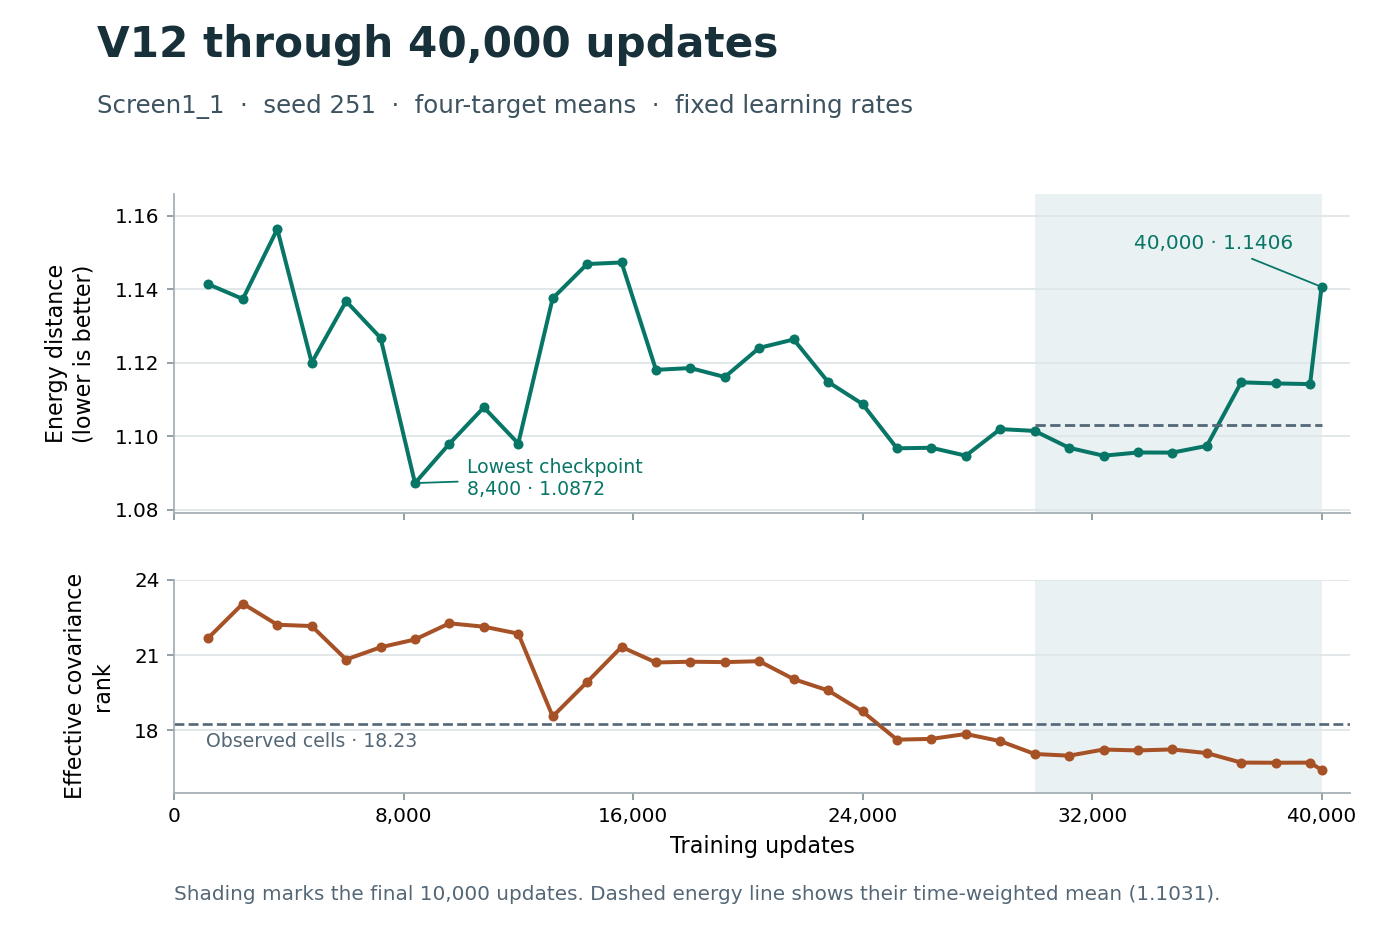
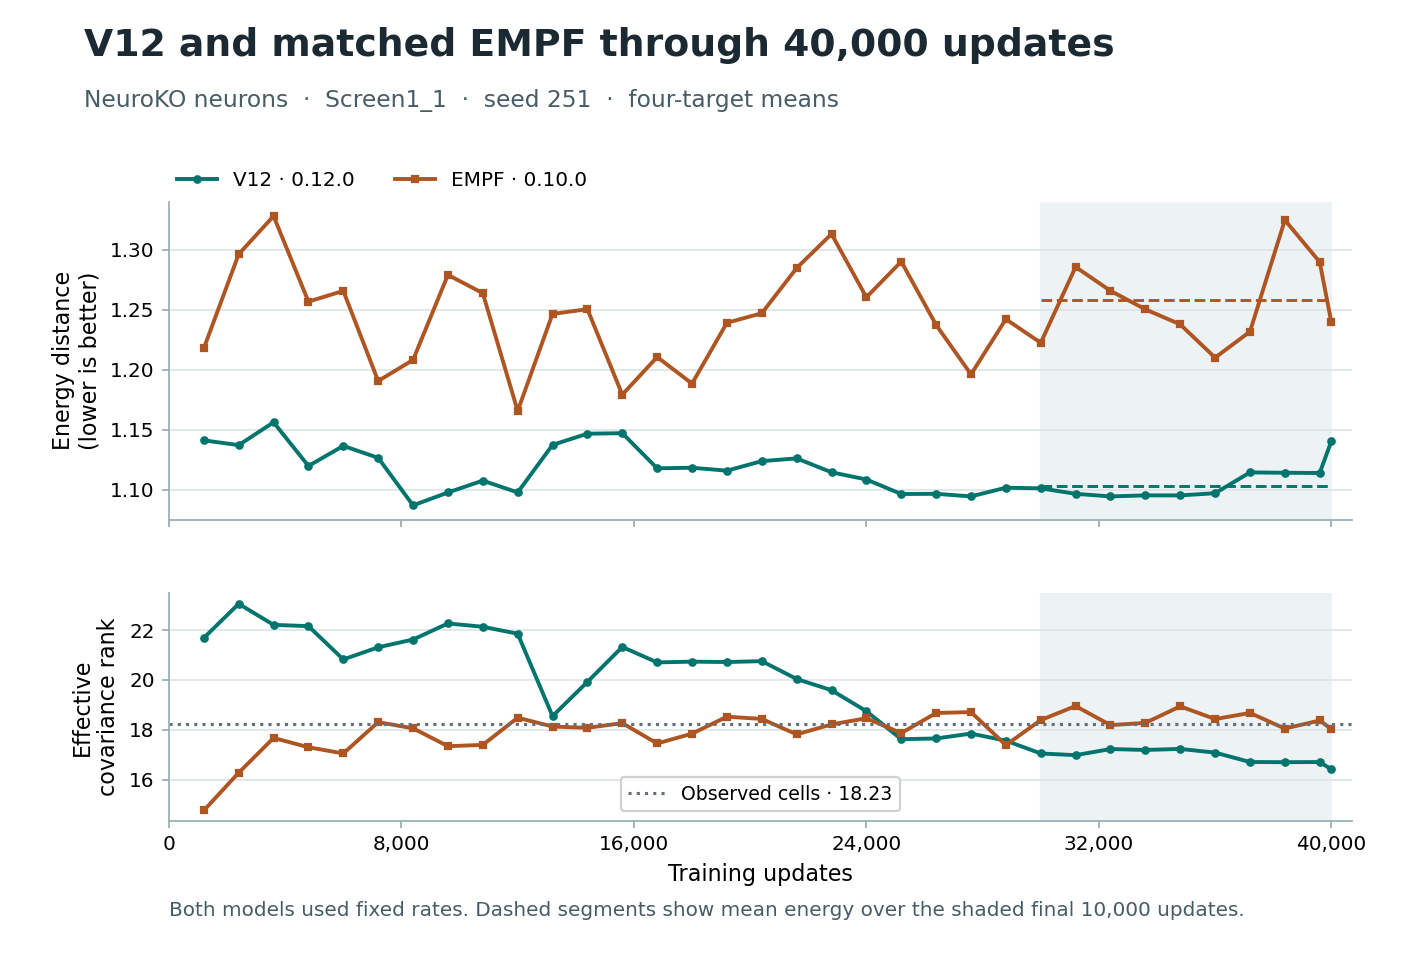
Publish the first paired 40k v12 and original EMPF result

diff --git a/paper_watch/notes/neuroko_v12_refinement.md b/paper_watch/notes/neuroko_v12_refinement.md
@@ -134,7 +134,7 @@ On seed 838, tuned EMPF's effective covariance rank rose on all three groups, av
 
 Seed 838 is the first fresh seed with all five configurations complete on all three groups. At 3,600 updates, mean energy was **0.92131** for v12, **0.93936** for tuned v11, **0.95637** for matched v11, **0.98929** for matched EMPF and **1.04457** for tuned EMPF. Across the first six of 18 completed group–seed pairs, v12 beat both EMPF configurations on all six and both v11 configurations on five. On seed 840, Screen1_3, tuned v11 led at 0.62494, matched v11 scored 0.63395 and v12 scored 0.66104. [Six completed pairs and the three checkpoint means for seed 838](neuroko_v12_convergence_3600_fresh.json)
 
-Seed 839 also favored v12 against tuned original EMPF on the three-group mean, **0.95067 versus 0.97693** at 3,600. Tuned EMPF won on Screen1_3, 0.67853 to 0.71283. Across the first eight pairs with both endpoints, seven favored v12. [Fresh group scores and paired training fingerprints](neuroko_v12_convergence_3600_fresh.json)
+Seed 839 also favored v12 against tuned original EMPF on the three-group mean, **0.95067 versus 0.97693** at 3,600. Tuned EMPF won on Screen1_3, 0.67853 to 0.71283. Across the first eight pairs with both EMPF and v12 endpoints, seven favored v12. Tuned original v11 scored 0.56637 on Screen1_3 and led v12 on the seed 839 mean, 0.91936 to 0.95067. [Fresh group scores and paired training fingerprints](neuroko_v12_convergence_3600_fresh.json)
 
 We will also compare the v11 and v12 optimizers inside the 0.12.0 wheel at 3,600 updates. At the calibrated settings, the resolved recipes differ in name and optimizer family alone. Reuse the v12 trajectories and train same-wheel v11 on identical minibatches at fixed rates, first on all six pilot pairs and then on all 18 fresh pairs regardless of the pilot result. The primary outcome is their paired mean energy difference at 3,600 updates. [Two-GPU reproduction command](../README.md#check-whether-v12-closes-the-gap-by-3600-updates)
 
@@ -144,13 +144,15 @@ Across all six pilot pairs at 3,600, v12 averaged **0.93564** and same-wheel v11
 
 A longer run follows all five configurations to 40,000 updates on Screen1_1, the first development group in the protocol, with seeds 22 and 251. V12 trailed tuned original v11 on this group at 3,600 on both pilot seeds. The primary outcome is mean energy at 40,000. A secondary outcome averages energy over updates 30,000–40,000 using the elapsed number of updates between measurements. Every fit replays the published checkpoints through 3,600 and checks the generator, critic and particle rates at every optimizer step. Two additional v11 fits in release 0.12.0 isolate the optimizer difference on these same seeds, batches and checkpoints. [Two-GPU commands and checkpoint schedule](../README.md#follow-v12-and-the-four-original-controls-to-40000-updates)
 
-The first 40,000-update fit was v12 on seed 251. Energy was **1.14130 at 1,200**, **1.15631 at 3,600** and **1.14060 at 40,000**. The lowest of the 34 recorded checkpoints was 1.08720 at 8,400. The time-weighted mean across the final 10,000 updates was 1.10308, with a rebound from 1.09732 at 36,000 to 1.14060 at the endpoint. The fit took 57.6 minutes on the shared A6000. Its pilot scores and minibatch hashes reproduced exactly, and both optimizers verified all 40,000 updates. The original controls are still training. [Long-run scores, target metrics, timings and paired hashes](neuroko_v12_convergence_40000.json)
+The first 40,000-update fit was v12 on seed 251. Energy was **1.14130 at 1,200**, **1.15631 at 3,600** and **1.14060 at 40,000**. The lowest of the 34 recorded checkpoints was 1.08720 at 8,400. The time-weighted mean across the final 10,000 updates was 1.10308, with a rebound from 1.09732 at 36,000 to 1.14060 at the endpoint. The fit took 57.6 minutes on the shared A6000. Its pilot scores and minibatch hashes reproduced exactly, and both optimizers verified all 40,000 updates. [Long-run scores, target metrics, timings and paired hashes](neuroko_v12_convergence_40000.json)
 
 On seed 22, energy reached **1.16185 at 40,000** after moving from 1.16325 at 30,000 to 1.16203 at 36,000. This seed plateaued, while seed 251 rebounded late. Its best recorded value was 1.12635 at 1,200. Across both seeds, mean energy was **1.13382 at 1,200**, **1.16421 at 3,600** and **1.15122 at 40,000**. The final 10,000 updates averaged 1.13280. On seed 22, rank fell from 19.54 at 3,600 to 16.67 at 40,000 and spread rose from 1.332 to 1.396. The two fits took 87.8 and 57.6 minutes under different concurrent GPU loads. [All 34 checkpoints per seed and per-target endpoints](neuroko_v12_convergence_40000.json)
 
 On seed 251, effective covariance rank fell from 22.21 at 3,600 to 16.42 at 40,000. The observed rank averaged 18.23, and all four generated targets had lower rank than their observed counterparts at 40,000. Meanwhile, the generated-to-observed spread ratio increased from 1.299 to 1.454. The late samples occupied fewer effective directions while spanning a wider distribution. [Real-cell target ranks](neuroko_v12_tuned_empf_geometry.json) · [Generated target ranks and spread](neuroko_v12_convergence_40000.json)
 
-![V12 energy distance and effective covariance rank on Screen1_1, seed 251, with the final 10,000 updates shaded](neuroko_v12_convergence_40000_seed251.png)
+The first completed 40,000-update comparison against an original control used seed 251. V12 scored **1.14060** and rate-matched original EMPF **1.23949**, a difference of **0.09889** in v12’s favor. The final 10,000 updates averaged 1.10308 for v12 and 1.25794 for EMPF. V12 had lower energy at all 34 measured checkpoints and on three of four targets at the endpoint. EMPF’s endpoint covariance rank was 18.03, closer to the observed 18.23 than v12’s 16.42. EMPF took 79.0 minutes and v12 took 57.6 minutes under different shared GPU loads. Both used fixed generator, critic and particle rates of 0.014, 0.0049 and 0.0406, the same network and the same 34 minibatch fingerprints. Each optimizer used its release’s native smoothing, 0.001 for EMPF and 0.0061 for v12. [Paired checkpoints, per-target scores and optimizer-step verification](neuroko_v12_convergence_40000.json)
+
+![V12 and rate-matched original EMPF energy distance and effective covariance rank on Screen1_1, seed 251](neuroko_v12_convergence_40000_seed251.png)
 
 ## Six configurations on the same nine training pairs
 
